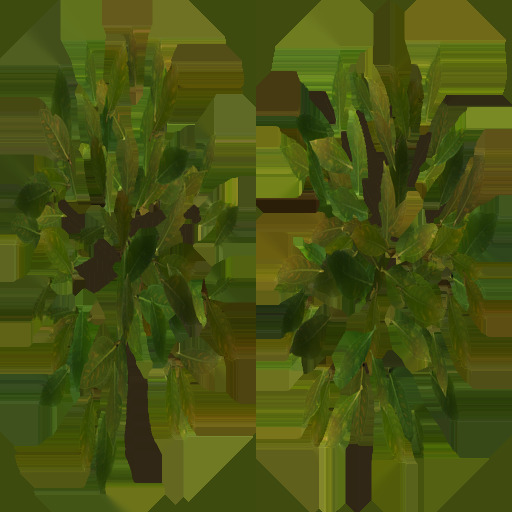
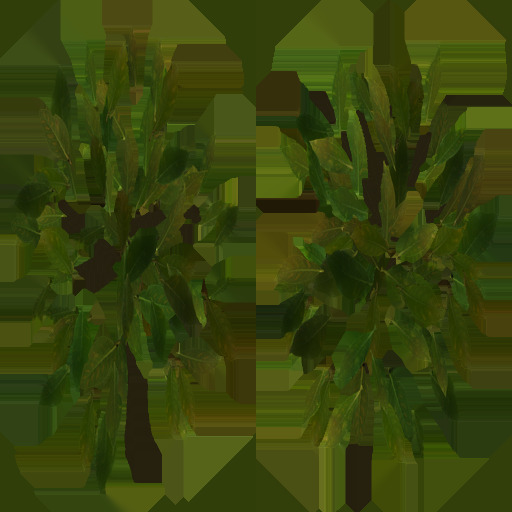
calmer bush colour

diff --git a/tools/make_foliage.py b/tools/make_foliage.py
@@ -693,7 +693,7 @@ def bush(name, seed, src, size=1.3, cards=22):
     for k in range(2):
         c = round_cluster(leaves, T, seed * 13 + k, n=70, leaf_scale=0.17).resize((T // 2, T), Image.LANCZOS)
         al, nm, rm = rgba_to_maps(c, 0.55)
-        tile[:, k * T // 2:(k + 1) * T // 2] = al * np.array([0.85, 0.95, 0.8])
+        tile[:, k * T // 2:(k + 1) * T // 2] = al * np.array([0.66, 0.78, 0.56])
         ntile[:, k * T // 2:(k + 1) * T // 2] = nm
         rtile[:, k * T // 2:(k + 1) * T // 2] = rm
     m = Mesh()
